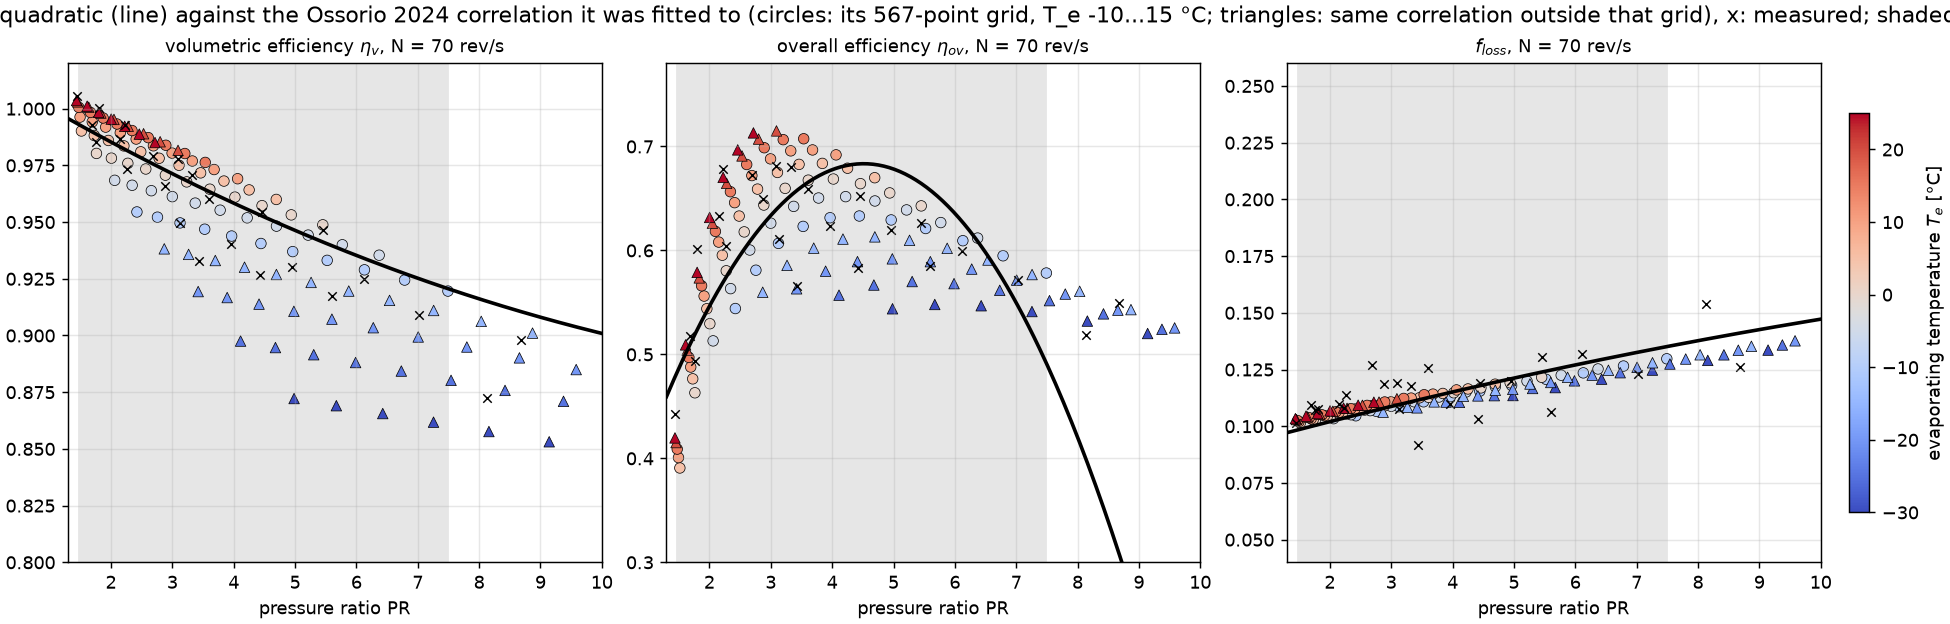
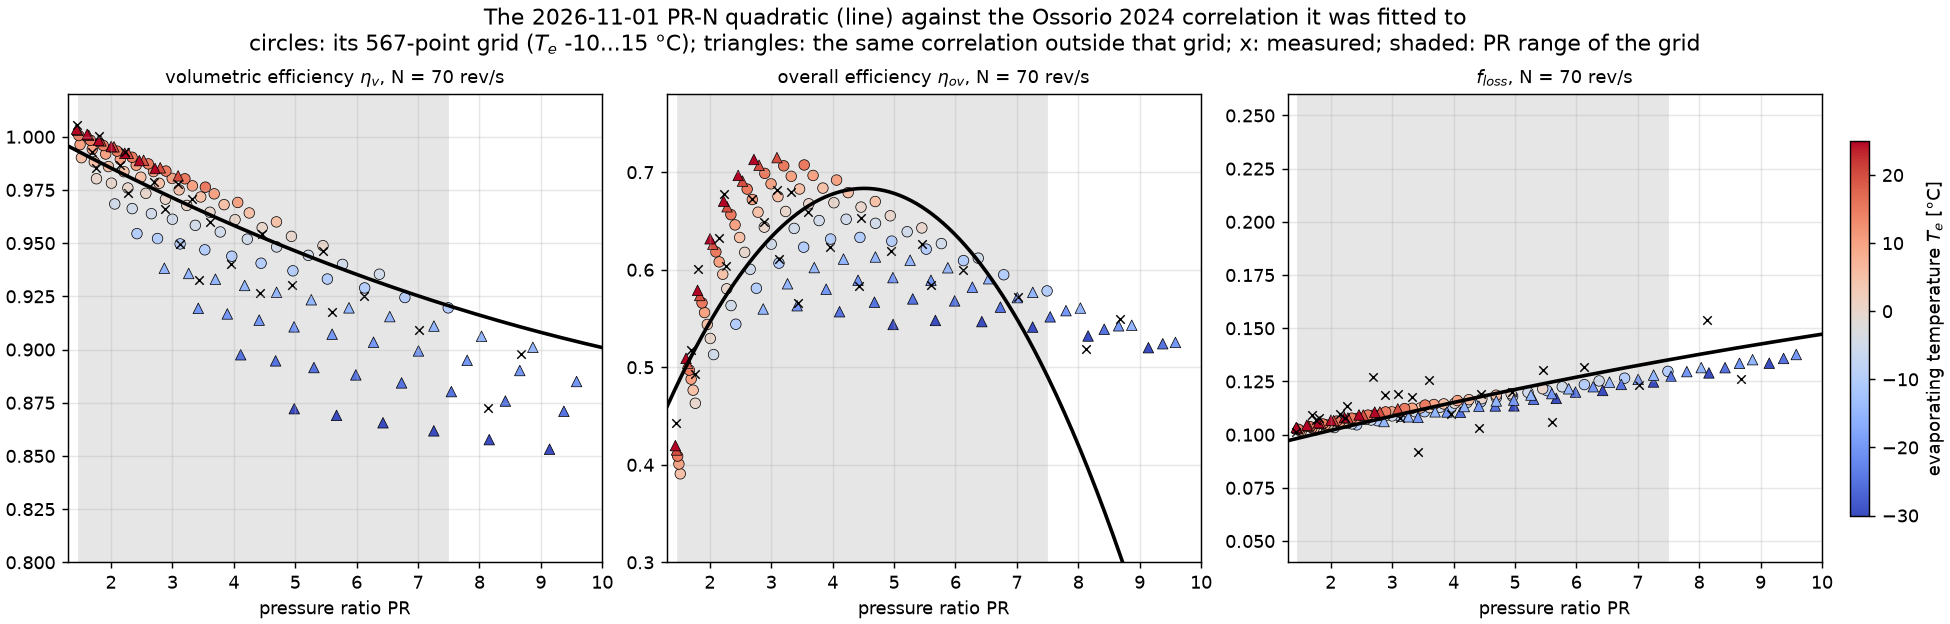
validation: 효율맵 그림에 자료 범위((PR, T_e) 껍질, 30–110 rev/s) 밖을 표시하고 제목을 다듬는다 (#218)

diff --git a/validation/compressor_maps/ossorio_te/figures.py b/validation/compressor_maps/ossorio_te/figures.py
@@ -46,6 +46,16 @@ def _maps() -> dict:
     return json.loads((ARCHIVE / "coefficients.json").read_text())["maps"]
 
 
+def _pr_range(te: float) -> tuple[float, float]:
+    """Pressure ratios inside the data's (PR, T_e) hull at one evaporating temperature."""
+    hull = json.loads((ARCHIVE / "coefficients.json").read_text())["domain"]["hull_PR_Te"]
+    xs = []
+    for (x1, y1), (x2, y2) in zip(hull, hull[1:] + hull[:1], strict=True):
+        if (y1 - te) * (y2 - te) <= 0 and y1 != y2:
+            xs.append(x1 + (te - y1) * (x2 - x1) / (y2 - y1))
+    return (min(xs), max(xs)) if xs else (np.nan, np.nan)
+
+
 def _eval(maps: dict, quantity: str, pr, rps, te) -> np.ndarray:
     a = basis(pr, rps, te if TE_TERM[quantity] else None)
     return a @ np.asarray(maps[quantity]["coefficients"])
@@ -74,6 +84,11 @@ def map_heatmaps(points: pd.DataFrame, maps: dict) -> None:
             ax = axes[i, j]
             z = _eval(maps, quantity, pr.ravel(), rps.ravel(), np.full(pr.size, te)).reshape(pr.shape)
             mesh = ax.pcolormesh(pr, rps, z, cmap="viridis", vmin=lo, vmax=hi, shading="auto")
+            lo_pr, hi_pr = _pr_range(te)
+            for x0, x1 in ((1.4, lo_pr), (hi_pr, 12.7)):
+                ax.axvspan(x0, x1, color="white", alpha=0.55, lw=0)
+            for y0, y1 in ((25, 30), (110, 115)):
+                ax.axhspan(y0, y1, color="white", alpha=0.55, lw=0)
             at = points[np.isclose(points.T_evap_C, te, atol=0.5)]
             ax.scatter(at.PR, at.N_rps, c=at[quantity], cmap="viridis", vmin=lo, vmax=hi, s=70, edgecolors="white")
             ax.set_title(f"{LABELS[quantity]}, $T_e$ = {te:g} °C ({len(at)} points)", fontsize=10)
@@ -84,7 +99,8 @@ def map_heatmaps(points: pd.DataFrame, maps: dict) -> None:
         fig.colorbar(mesh, ax=axes[i, :], shrink=0.9, pad=0.01)
     fig.suptitle(
         "Default maps (background) and the measured points at that $T_e$ (markers, same colour scale)\n"
-        "A marker that matches its background is a point the map reproduces; f_loss has no $T_e$ term"
+        "A marker that matches its background is a point the map reproduces; pale: outside the data "
+        "((PR, $T_e$) hull, 30-110 rev/s); f_loss has no $T_e$ term"
     )
     fig.savefig(FIGURES / "map_heatmaps.png", dpi=130)
     plt.close(fig)
@@ -100,12 +116,11 @@ def map_slices(points: pd.DataFrame, maps: dict) -> None:
             at = points[points.N_rps == n]
             ax.scatter(at.PR, at[quantity], c=TE_CMAP(TE_NORM(at.T_evap_C)), s=36, edgecolors="black", linewidths=0.4)
             for te in (-20.0, 0.0, 20.0):
-                ax.plot(
-                    pr,
-                    _eval(maps, quantity, pr, np.full_like(pr, n), np.full_like(pr, te)),
-                    color=TE_CMAP(TE_NORM(te)),
-                    lw=2,
-                )
+                y = _eval(maps, quantity, pr, np.full_like(pr, n), np.full_like(pr, te))
+                lo_pr, hi_pr = _pr_range(te)
+                inside = (pr >= lo_pr) & (pr <= hi_pr)
+                ax.plot(pr, np.where(inside, y, np.nan), color=TE_CMAP(TE_NORM(te)), lw=2)
+                ax.plot(pr, y, color=TE_CMAP(TE_NORM(te)), lw=0.8, ls=":")
             ax.plot(pr, _quadratic(quantity, pr, np.full_like(pr, n)), color="black", ls="--", lw=1.2)
             ax.set_ylim({"eta_v": (0.75, 1.02), "eta_ov": (0.3, 0.78), "f_loss": (0.04, 0.3)}[quantity])
             ax.set_title(f"{LABELS[quantity]}, N = {n:g} rev/s", fontsize=10)
@@ -114,8 +129,9 @@ def map_slices(points: pd.DataFrame, maps: dict) -> None:
                 ax.set_xlabel("pressure ratio PR")
     _te_colorbar(fig, axes)
     fig.suptitle(
-        "Default maps at $T_e$ = -20 / 0 / 20 °C (solid) and measured points coloured by $T_e$; "
-        "dashed: the 2026-11-01 PR-N quadratic it replaces"
+        "Default maps at $T_e$ = -20 / 0 / 20 °C (solid inside the data's (PR, $T_e$) hull, dotted outside) "
+        "and measured points coloured by $T_e$;\ndashed: the 2026-11-01 PR-N quadratic it replaces "
+        "(f_loss has no $T_e$ term: one line)"
     )
     fig.savefig(FIGURES / "map_slices.png", dpi=130)
     plt.close(fig)
@@ -151,9 +167,7 @@ def te_residuals(points: pd.DataFrame, maps: dict) -> None:
         ax.set_ylabel(f"measured - map, {LABELS[quantity]}")
         ax.grid(alpha=0.3)
         ax.legend(fontsize=9, loc="lower right")
-    fig.suptitle(
-        "Residual against $T_e$: without the $T_e$ term the residual follows $T_e$ (same 134 points, same 7-term PR-N form)"
-    )
+    fig.suptitle("Residual against $T_e$ with and without the $T_e$ term (same 134 points, same 7-term PR-N form)")
     fig.savefig(FIGURES / "te_residuals.png", dpi=130)
     plt.close(fig)
 
@@ -217,8 +231,8 @@ def correlation_points_on_quadratic(points: pd.DataFrame) -> None:
         ax.grid(alpha=0.3)
     _te_colorbar(fig, axes)
     fig.suptitle(
-        "The 2026-11-01 PR-N quadratic (line) against the Ossorio 2024 correlation it was fitted to "
-        "(circles: its 567-point grid, T_e -10...15 °C; triangles: same correlation outside that grid), "
+        "The 2026-11-01 PR-N quadratic (line) against the Ossorio 2024 correlation it was fitted to\n"
+        "circles: its 567-point grid ($T_e$ -10...15 °C); triangles: the same correlation outside that grid; "
         "x: measured; shaded: PR range of the grid"
     )
     fig.savefig(FIGURES / "correlation_points_on_quadratic.png", dpi=130)
